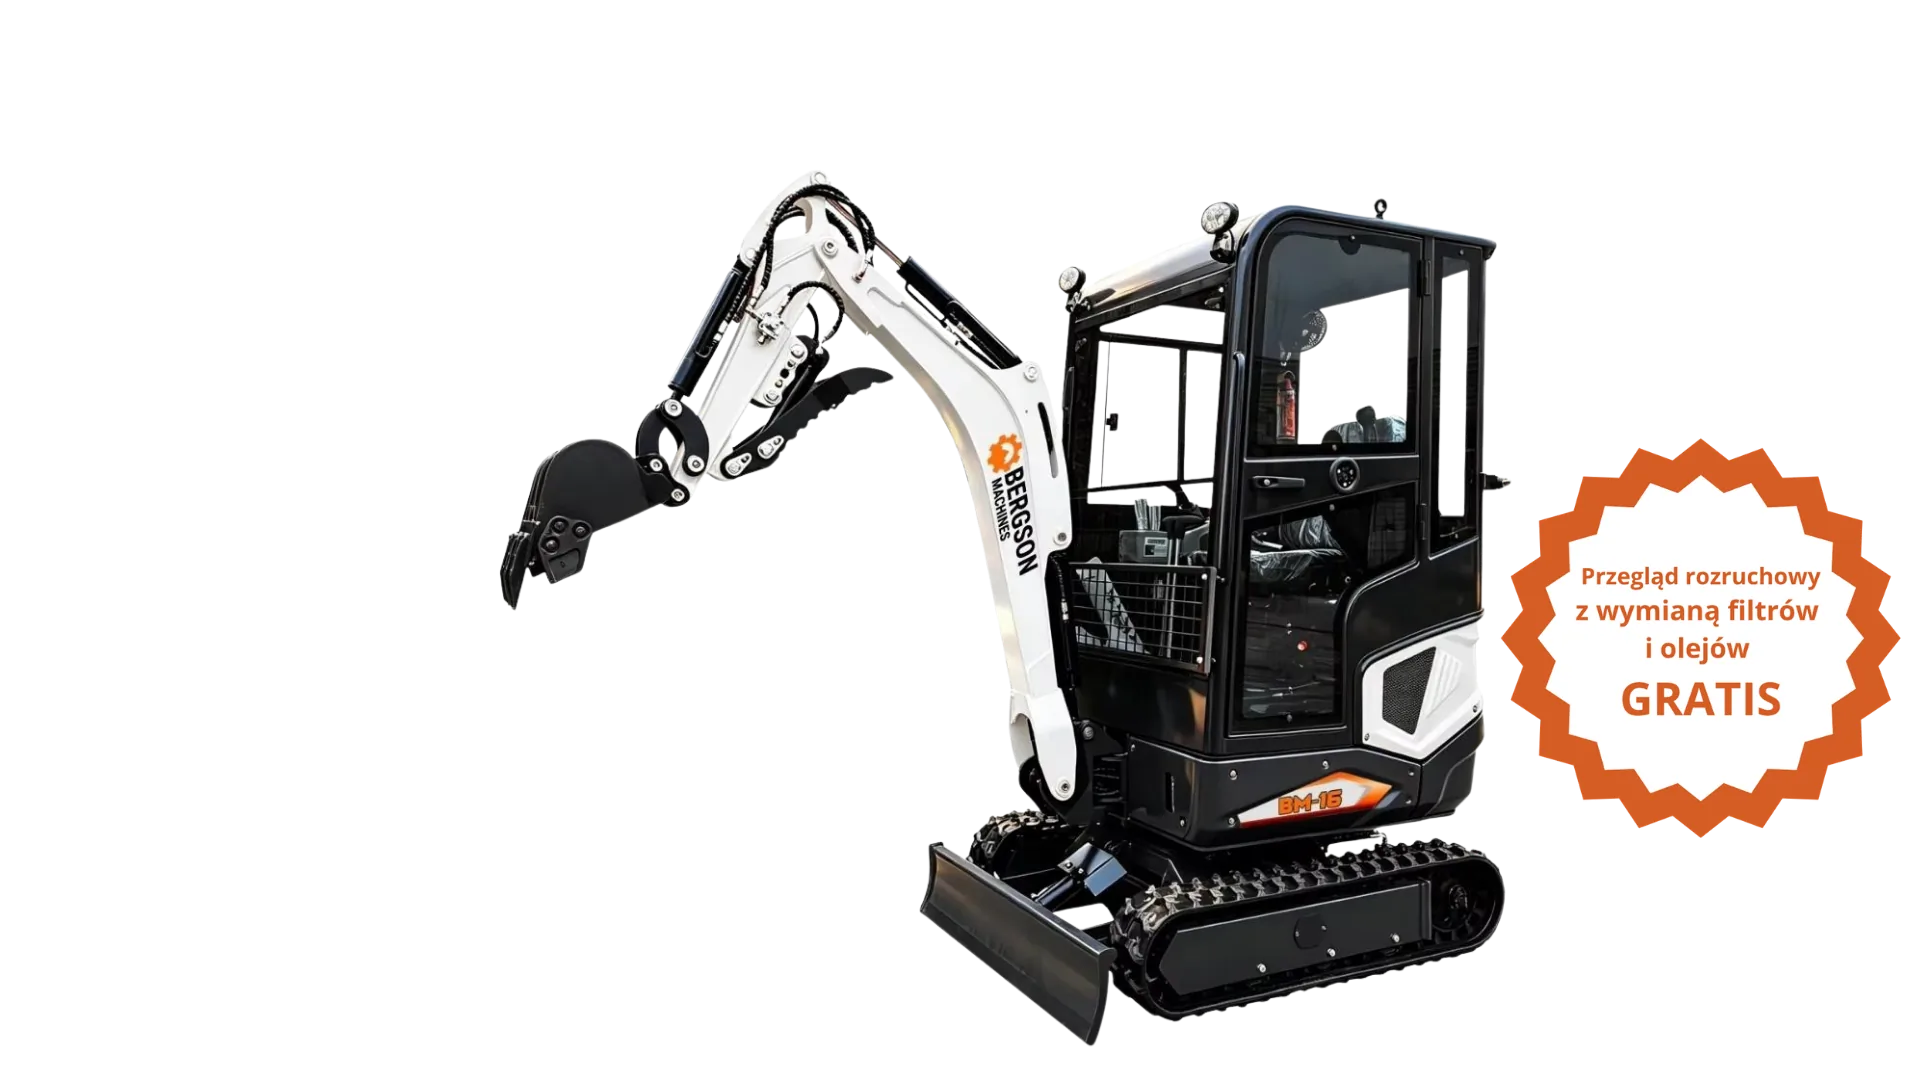
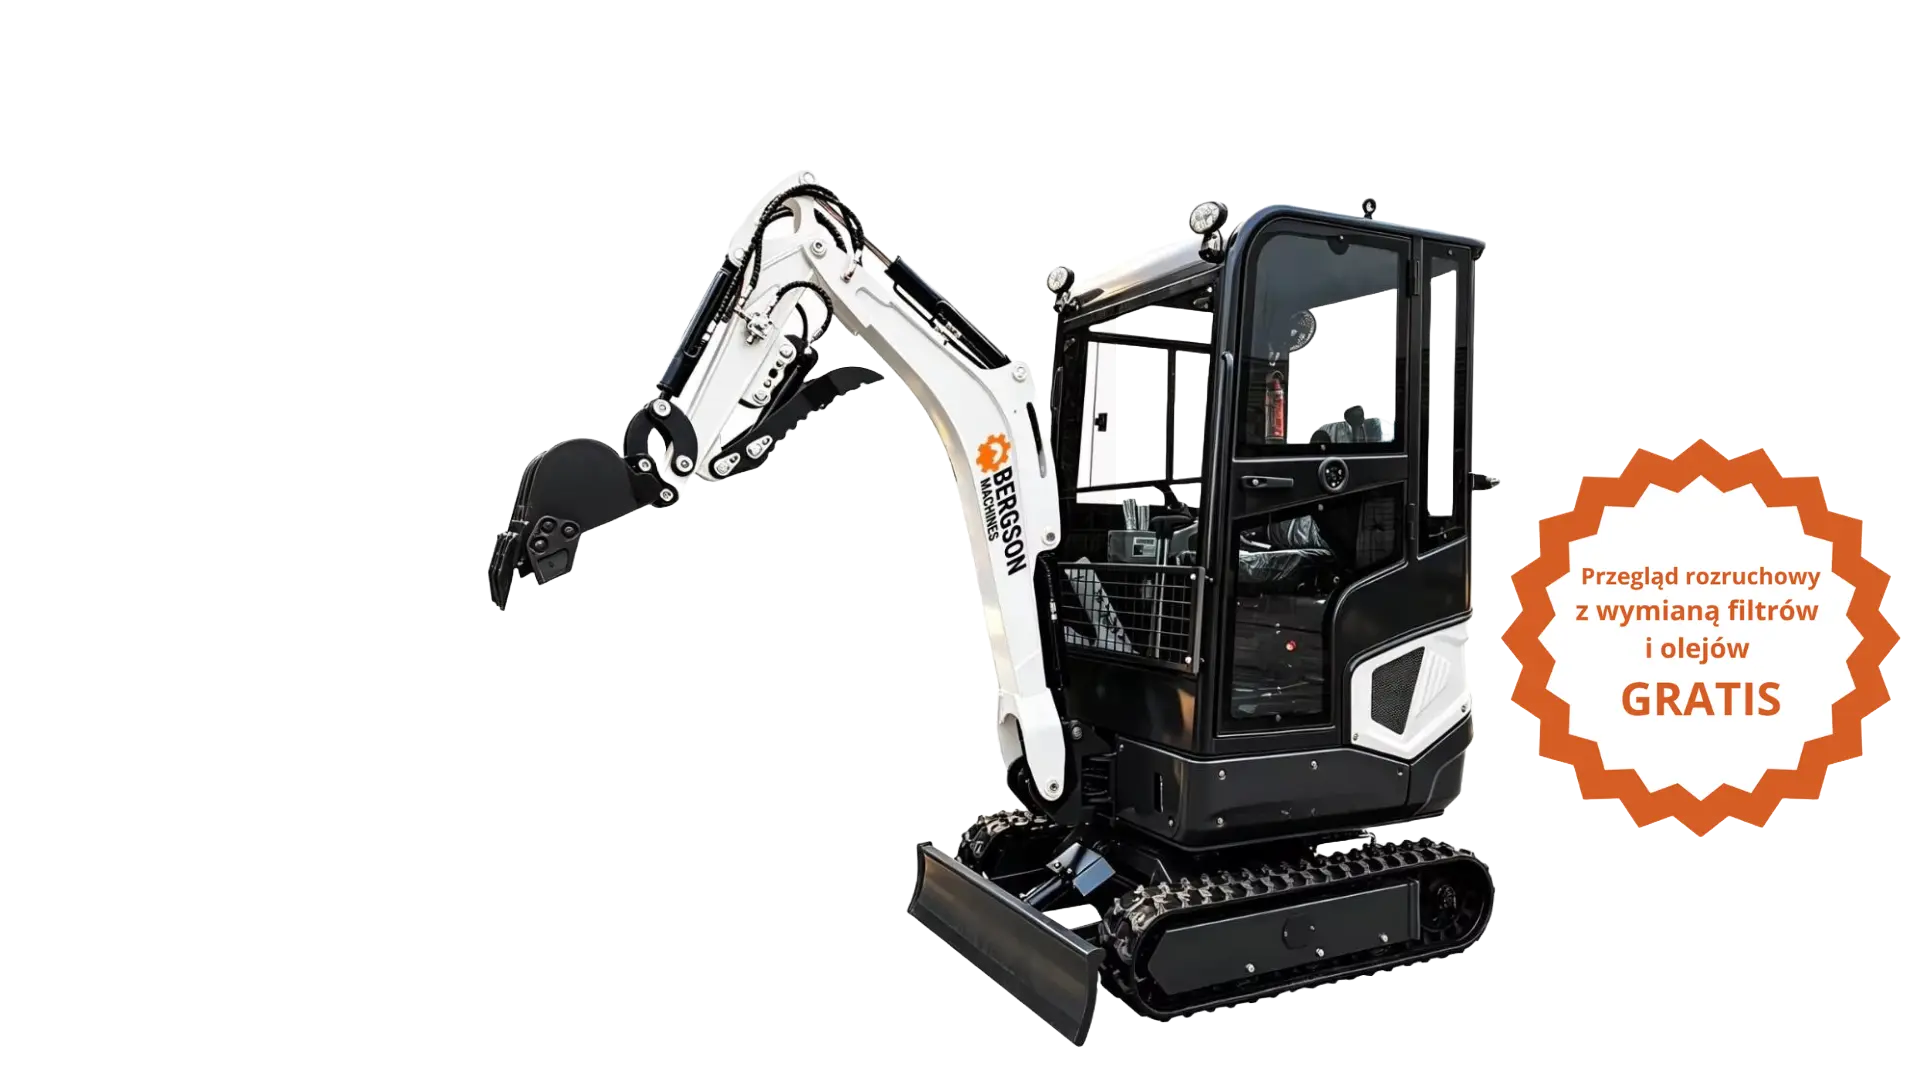
Changed photos

Changed region(s): [[0.25, 0.1528, 0.7812, 0.9778], [0.5, 0.8861, 0.5312, 0.9167]]

diff --git a/src/data.jsx b/src/data.jsx
@@ -161,7 +161,7 @@ export const MODELS = [
   {
     id: 'bm16c-kubota',
     name: 'BM15C KUBOTA',
-    image: '/images/optimized/BM17C.webp',
+    image: '/images/optimized/BM15C.webp',
     gallery: [
       '/images/optimized/BM17C.webp',
       '/images/optimized/BM17C.webp',
